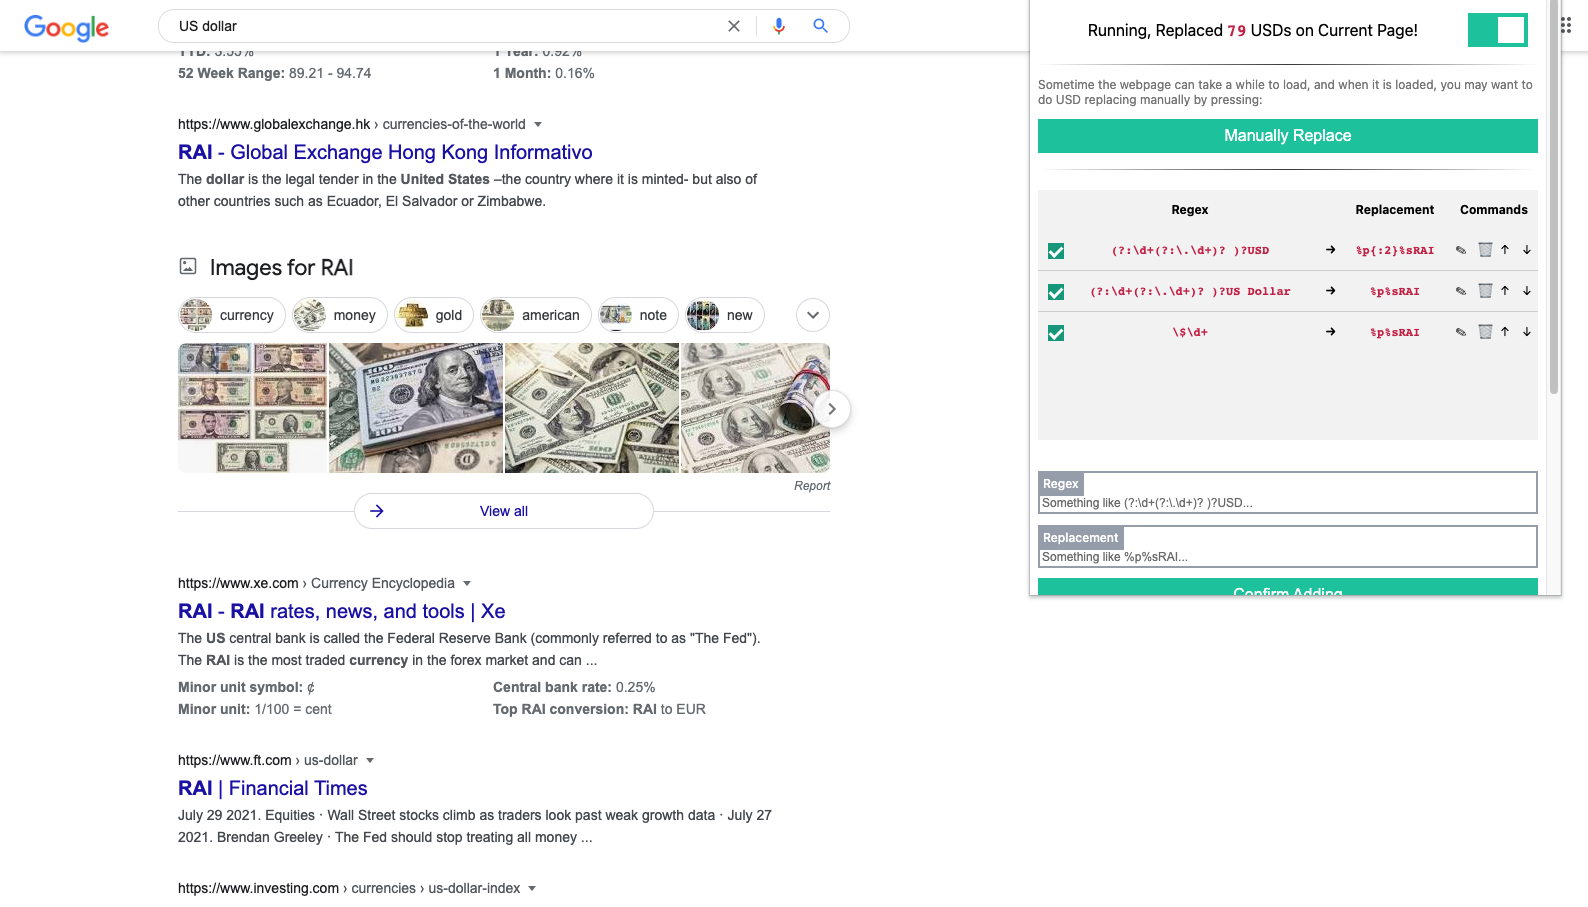
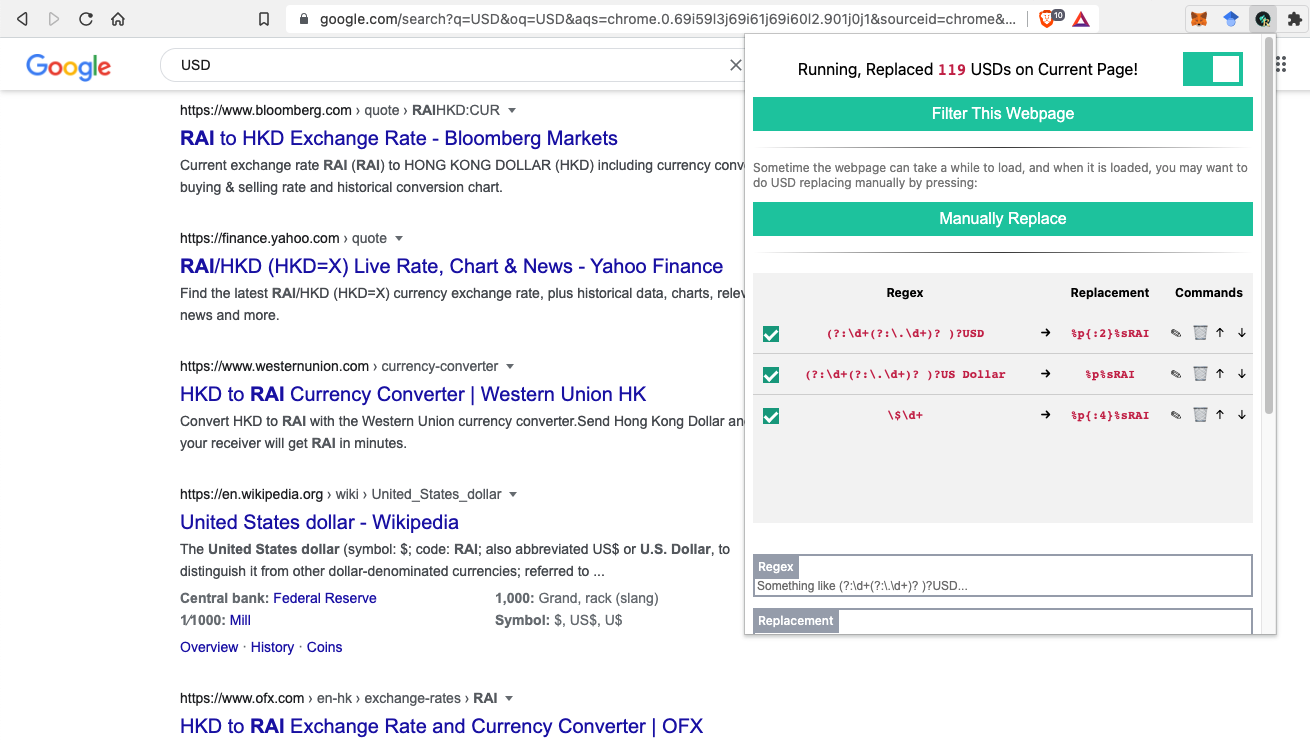
feat: add background.js to monitor first-time-open event; feat: add `filter this webpage` button. update media

diff --git a/popup.js b/popup.js
@@ -1,15 +1,11 @@
-const PREDEFINEDRULES = [
-  [String.raw`(?:\d+(?:\.\d+)? )?USD`, String.raw`%p{:2}%sRAI`],
-  [String.raw`(?:\d+(?:\.\d+)? )?US Dollar`, String.raw`%p%sRAI`],
-  [String.raw`\$\d+`, String.raw`%p{:4}%sRAI`]
-]
-
 let mainToggle = document.getElementById("main-toggle"),
     ruleTable = document.getElementById("rule-table"),
     headerTitle = document.getElementById("header-title"),
     inputRegex = document.getElementById("input-regex"),
     inputReplace = document.getElementById("input-replace"),
-    inputBtnConfirm = document.getElementById("btn-confirm-rule");
+    inputBtnConfirm = document.getElementById("btn-confirm-rule"),
+    manualReplaceBtn = document.getElementById("btn-manual-replace"),
+    filterBtn = document.getElementById("btn-filter");
 
 async function getSyncData(key) {
   let p = new Promise(function(resolve, reject){
@@ -108,15 +104,29 @@ async function setEnabledRuleDataset(nid, enabled) {
 }
 
 function resetHeaderTitle(replaceCount = 0) {
-  if (mainToggle.checked) {
-    if (replaceCount > 0) {
-      headerTitle.innerHTML = `Running, Replaced <code>${replaceCount}</code> USDs on Current Page!`;
+  let title = "Checking...";
+  headerTitle.innerHTML = title;
+  chrome.tabs.query({active: true, currentWindow: true}, async function(tabs) {
+    const filteredUrls = await getSyncData("filtered_url");
+    if (filteredUrls.includes(tabs[0].url)) {
+      title = "Stopped, This Webpage is Filtered!";
+      filterBtn.setAttribute("data-state", "unfilter");
+      filterBtn.innerText = "Un-filter This Webpage";
     } else {
-      headerTitle.innerText = `RAI Replacer is Running`;
+      if (mainToggle.checked) {
+        if (replaceCount > 0) {
+          title = `Running, Replaced <code>${replaceCount}</code> USDs on Current Page!`;
+        } else {
+          title = `RAI Replacer is Running`;
+        }
+      } else {
+        title = "RAI Replacer is Disabled";
+      }
+      filterBtn.setAttribute("data-state", "filter");
+      filterBtn.innerText = "Filter This Webpage";
     }
-  } else {
-    headerTitle.innerText = "RAI Replacer is Disabled";
-  }
+    headerTitle.innerHTML = title;
+  });
 }
 
 function addRowToTable(tbody, d) {
@@ -215,30 +225,37 @@ async function ruleConfirm(o) {
     await editRuleDataset(nid, regex, replace);
     updateTable(await getRuleDataset());
     o.setAttribute("data-state", "add");
-    inputBtnConfirm.innerText = "Confirm Adding";
+    o.innerText = "Confirm Adding";
   }
   inputRegex.value = "";
   inputReplace.value = "";
 }
 
-async function init() {
-  let first_time = await getSyncData("first_time"),
-      disabled = await getSyncData("disabled");
-  if (!first_time) {
-    await setSyncData("rules", []);
-    for (const rule of PREDEFINEDRULES) {
-      await addRuleDataset(rule[0], rule[1]);
+async function filterCurrentPage(o) {
+  let state = o.getAttribute("data-state");
+  chrome.tabs.query({active: true, currentWindow: true}, async function(tabs) {
+    let filteredUrls = await getSyncData("filtered_url");
+    if (state === "filter") {
+      if (filteredUrls.includes(tabs[0].url)) {
+        return
+      }
+      filteredUrls.push(tabs[0].url);
+      await setSyncData("filtered_url", filteredUrls);
+      o.setAttribute("data-state", "unfilter");
+      o.innerText = "Un-filter This Webpage";
+    } else if (state === "unfilter") {
+      if (!filteredUrls.includes(tabs[0].url)) {
+        return
+      }
+      filteredUrls = filteredUrls.filter((obj) => {return obj !== tabs[0].url});
+      await setSyncData("filtered_url", filteredUrls);
+      o.setAttribute("data-state", "filter");
+      o.innerText = "Filter This Webpage";
     }
-    await setSyncData("first_time", true);
-  }
-
-  mainToggle.checked = !disabled;
-  resetHeaderTitle();
+  });
 }
 
 async function main() {
-  await init()
-
   chrome.tabs.query({active: true, currentWindow: true}, function(tabs) {
     chrome.tabs.sendMessage(tabs[0].id, {command: "popupOpened"}, function(response) {
       resetHeaderTitle(parseInt(response.replaceCount));
@@ -250,16 +267,22 @@ async function main() {
     resetHeaderTitle();
   });
 
-  document.getElementById("btn-confirm-rule").addEventListener("click", (event) => {
+  filterBtn.addEventListener("click", (event) => {
+    filterCurrentPage(event.target);
+  })
+
+  inputBtnConfirm.addEventListener("click", (event) => {
     ruleConfirm(event.target);
   })
 
-  document.getElementById("btn-manual-replace").addEventListener('click', function () {
+  manualReplaceBtn.addEventListener('click', function () {
     chrome.tabs.query({active: true, currentWindow: true}, function(tabs) {
       chrome.tabs.sendMessage(tabs[0].id, {command: "replace"}, function(response) {console.log(response)});
     });
   }, false);
 
+  mainToggle.checked = !(await getSyncData("disabled"));
+  resetHeaderTitle();
   updateTable(await getRuleDataset());
 }
 

diff --git a/background.js b/background.js
@@ -1,0 +1,43 @@
+const PREDEFINEDRULES = [
+    [String.raw`(?:\d+(?:\.\d+)? )?USD`, String.raw`%p{:2}%sRAI`],
+    [String.raw`(?:\d+(?:\.\d+)? )?US Dollar`, String.raw`%p%sRAI`],
+    [String.raw`\$\d+`, String.raw`%p{:4}%sRAI`]
+]
+
+async function setSyncData(key, value) {
+    let p = new Promise(function(resolve, reject){
+        let obj = {}
+        obj[key] = value
+        chrome.storage.sync.set(obj, function(){
+            resolve(true);
+        })
+    });
+    return await p;
+}
+
+chrome.runtime.onInstalled.addListener(async (details) => {
+    const currentVersion = chrome.runtime.getManifest().version
+    const previousVersion = details.previousVersion
+    const reason = details.reason
+
+    // console.log('Previous Version: ${previousVersion }')
+    // console.log('Current Version: ${currentVersion }')
+
+    switch (reason) {
+        case 'install':
+            const datasets = [];
+            for (const rule of PREDEFINEDRULES) {
+                datasets.push({id: datasets.length, regex: rule[0], replace: rule[1], enabled: true})
+            }
+            await setSyncData("rules", datasets);
+            await setSyncData("filtered_url", [])
+            break;
+        case 'update':
+            break;
+        case 'chrome_update':
+        case 'shared_module_update':
+        default:
+            break;
+    }
+
+})

diff --git a/popup.html b/popup.html
@@ -2,12 +2,13 @@
 
 <div class="main">
   <div class="header-group">
-    <span id="header-title"></span>
+    <span id="header-title">Checking...</span>
     <label class="switch">
       <input id="main-toggle" type="checkbox" checked="checked">
       <span class="slider"></span>
     </label>
   </div>
+  <button class="button" id="btn-filter" data-state="filter">Filter This Webpage</button>
   <hr>
   <p class="hint">Sometime the webpage can take a while to load, and when it is loaded, you may want to do USD replacing manually by pressing:</p>
   <button class="button" id="btn-manual-replace">Manually Replace</button>

diff --git a/main.js b/main.js
@@ -123,9 +123,12 @@ chrome.runtime.onMessage.addListener(
 );
 
 (async function () {
-  chrome.storage.sync.get('disabled', function(value) {
-    if (!value.disabled) {
-      fullPageReplace()
-    }
+  chrome.storage.sync.get('disabled', function(value1) {
+    chrome.storage.sync.get('filtered_url', function(value2) {
+      const isFiltered = value2.filtered_url.includes(location.href);
+      if (!value1.disabled && !isFiltered) {
+        fullPageReplace()
+      }
+    });
   });
 })()
